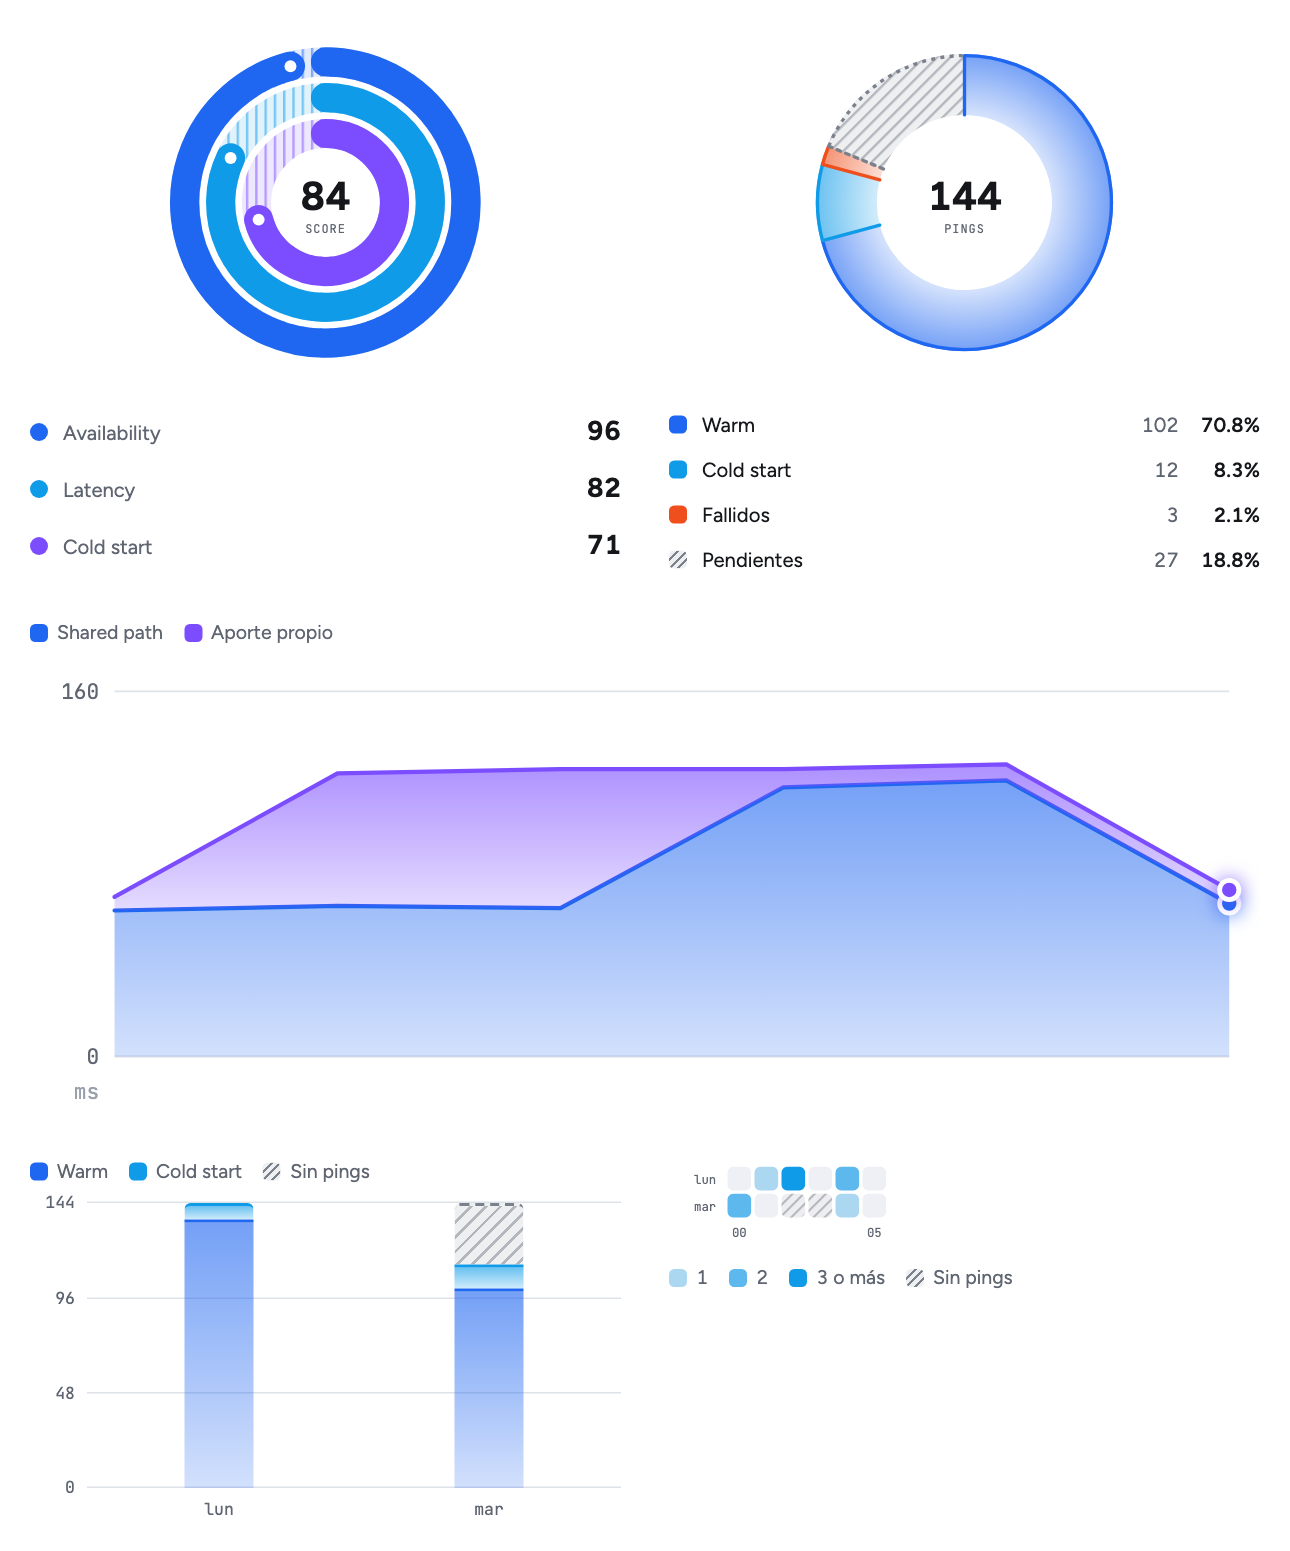
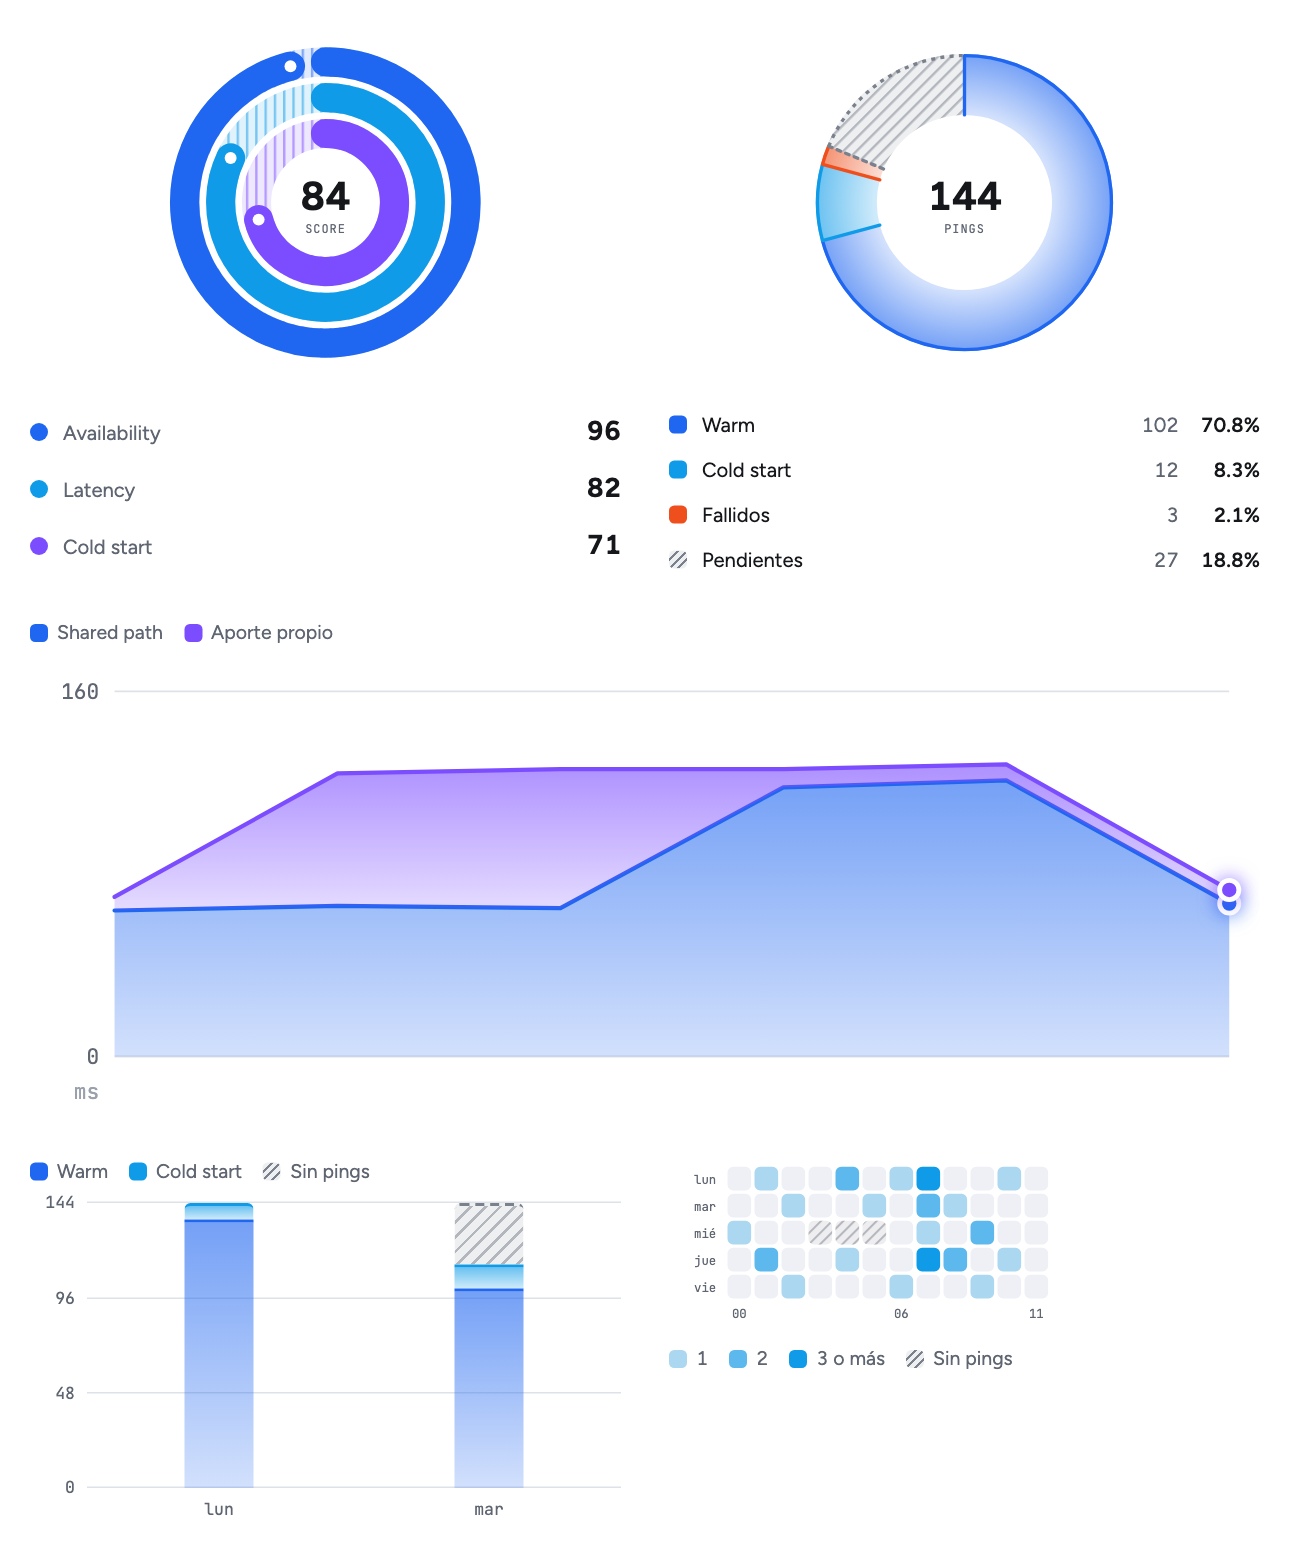
docs: heatmap del README de 5 × 12, y el hero más parejo

diff --git a/README.md b/README.md
@@ -576,13 +576,17 @@ Al apagar una porción desde la leyenda, el círculo se vuelve a repartir entre 
 
 ```js
 heatmap({
-  rows: ['lun', 'mar'],
+  rows: ['lun', 'mar', 'mié', 'jue', 'vie'],
   values: [
-    [0, 1, 3, 0, 2, 0],
-    [2, 0, 'En pausa', 'En pausa', 1, 0]
+    [0, 1, 0, 0, 2, 0, 1, 3, 0, 0, 1, 0],
+    [0, 0, 1, 0, 0, 1, 0, 2, 1, 0, 0, 0],
+    [1, 0, 0, 'En pausa', 'En pausa', 'En pausa', 0, 1, 0, 2, 0, 0],
+    [0, 2, 0, 0, 1, 0, 0, 3, 2, 0, 1, 0],
+    [0, 0, 1, 0, 0, 0, 1, 0, 0, 1, 0, 0]
   ],
   unit: ['cold start', 'cold starts'],
-  emptyLabel: 'Sin pings'
+  emptyLabel: 'Sin pings',
+  colTicks: [0, 6, 11]
 })
 ```
 
